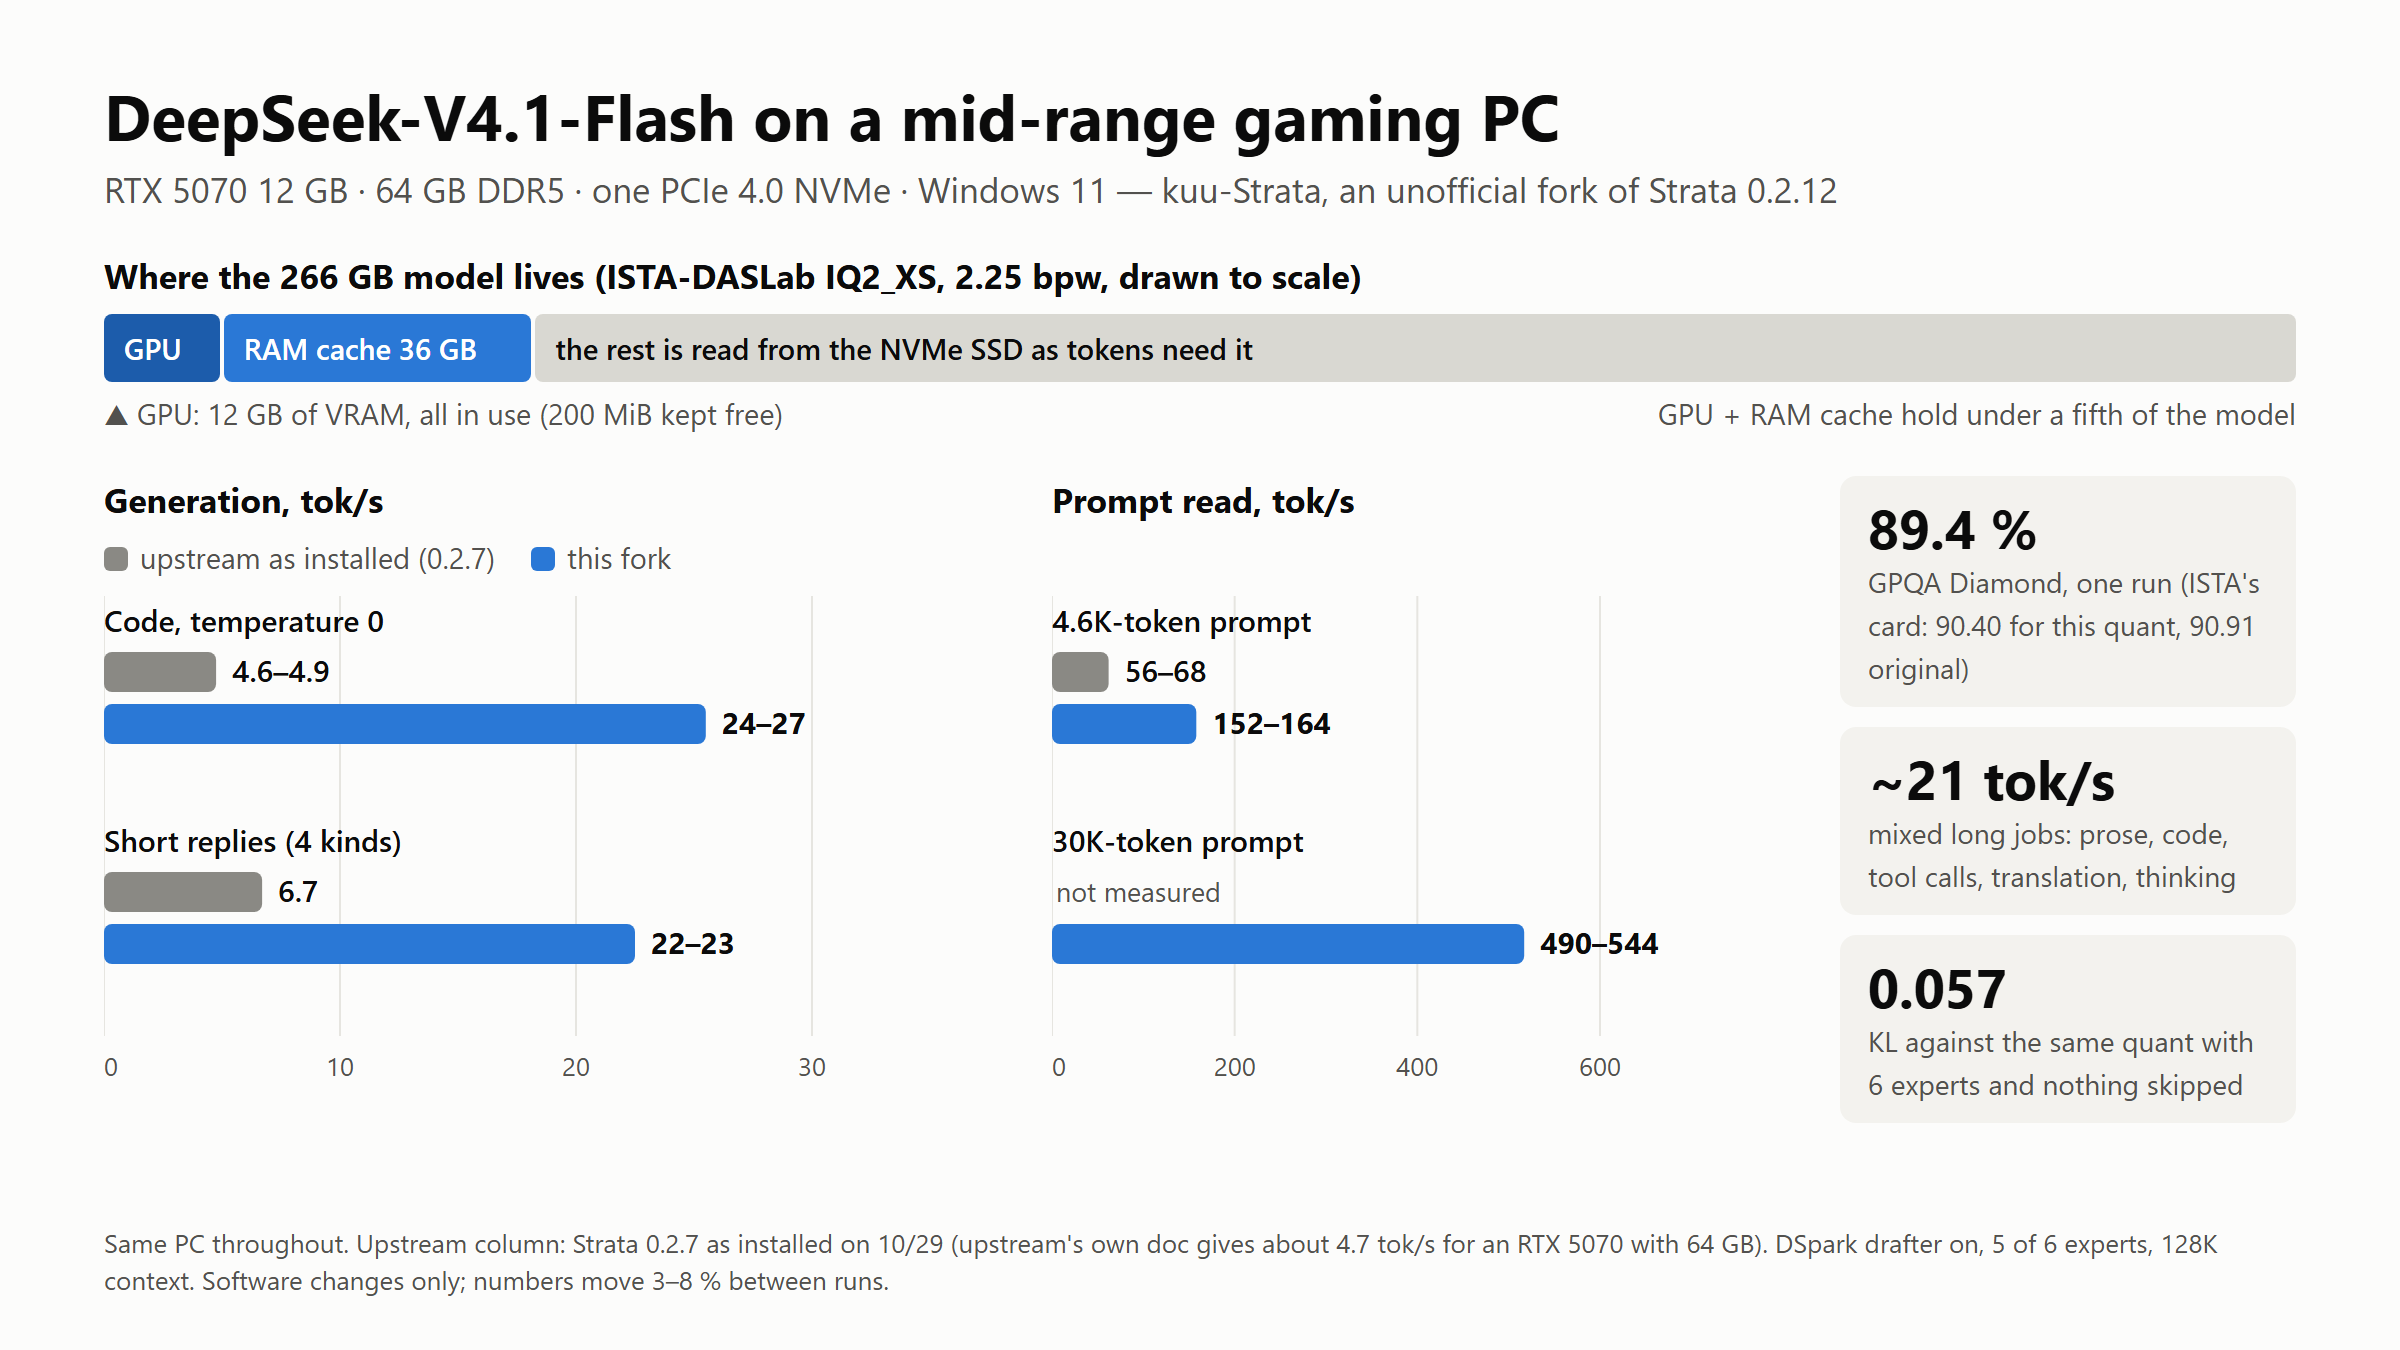
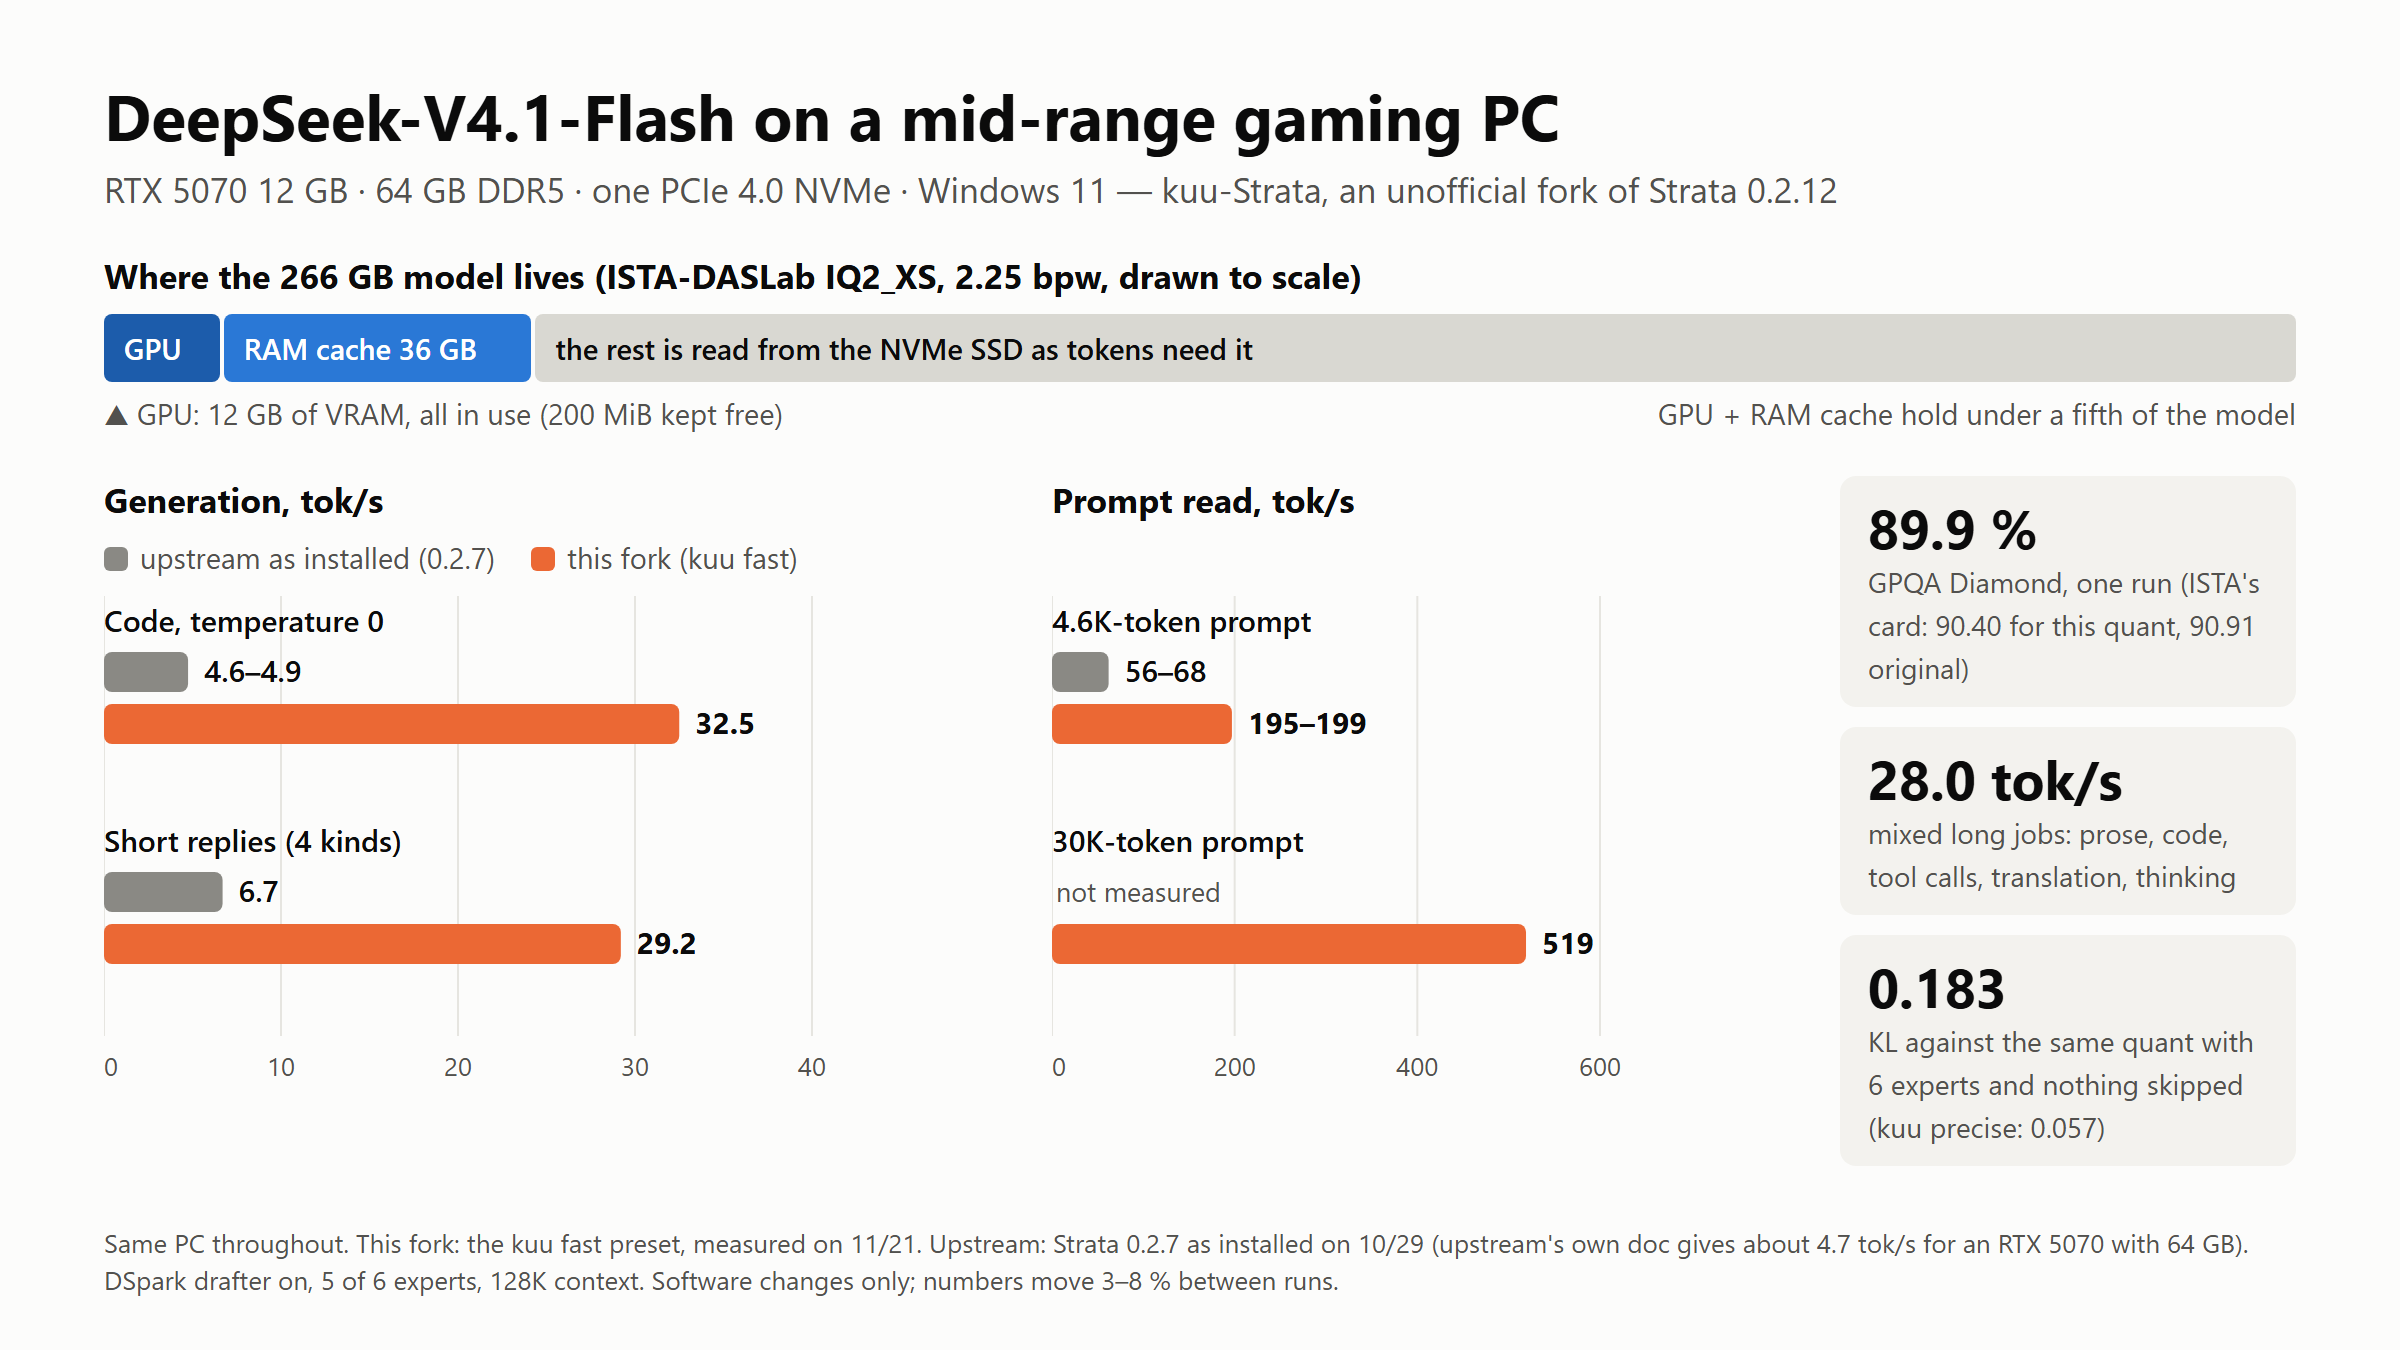
fork: README table from one session; summary image shows kuu fast
The kuu precise column now holds its 11/20 numbers from the same session as kuu fast (the old
ranges came from other days and made the 30K read look faster than fast). The summary image
showed kuu precise as "this fork"; it now shows the kuu fast run of 11/21.

diff --git a/docs/img/src/kuu-strata-summary.html b/docs/img/src/kuu-strata-summary.html
@@ -37,18 +37,18 @@ svg text{font-family:"Segoe UI",system-ui,sans-serif}
 
 <div class="row">
  <div class="panel"><h2>Generation, tok/s</h2>
-  <div class="key"><span><i style="background:#8a8984"></i>upstream as installed (0.2.7)</span><span><i style="background:#2a78d6"></i>this fork</span></div>
+  <div class="key"><span><i style="background:#8a8984"></i>upstream as installed (0.2.7)</span><span><i style="background:#eb6834"></i>this fork (kuu fast)</span></div>
   <svg id="g" width="440" height="250"></svg></div>
  <div class="panel"><h2>Prompt read, tok/s</h2>
   <div class="key"><span>&nbsp;</span></div>
   <svg id="p" width="360" height="250"></svg></div>
  <div class="tiles">
-  <div class="tile"><b>89.4 %</b><span>GPQA Diamond, one run (ISTA's card: 90.40 for this quant, 90.91 original)</span></div>
-  <div class="tile"><b>~21 tok/s</b><span>mixed long jobs: prose, code, tool calls, translation, thinking</span></div>
-  <div class="tile"><b>0.057</b><span>KL against the same quant with 6 experts and nothing skipped</span></div>
+  <div class="tile"><b>89.9 %</b><span>GPQA Diamond, one run (ISTA's card: 90.40 for this quant, 90.91 original)</span></div>
+  <div class="tile"><b>28.0 tok/s</b><span>mixed long jobs: prose, code, tool calls, translation, thinking</span></div>
+  <div class="tile"><b>0.183</b><span>KL against the same quant with 6 experts and nothing skipped (kuu precise: 0.057)</span></div>
  </div>
 </div>
-<div class="foot">Same PC throughout. Upstream column: Strata 0.2.7 as installed on 10/29 (upstream's own doc gives about 4.7 tok/s for an RTX 5070 with 64 GB). DSpark drafter on, 5 of 6 experts, 128K context. Software changes only; numbers move 3–8 % between runs.</div>
+<div class="foot">Same PC throughout. This fork: the kuu fast preset, measured on 11/21. Upstream: Strata 0.2.7 as installed on 10/29 (upstream's own doc gives about 4.7 tok/s for an RTX 5070 with 64 GB). DSpark drafter on, 5 of 6 experts, 128K context. Software changes only; numbers move 3–8 % between runs.</div>
 <script>
 const NS="http://www.w3.org/2000/svg";
 function chart(id,max,ticks,groups){
@@ -61,15 +61,15 @@ function chart(id,max,ticks,groups){
   el("text",{x:0,y:y0+18,"font-size":15,"font-weight":600,fill:"#0b0b0b"},g.l);
   g.b.forEach((b,j)=>{const y=y0+28+j*26,v=b.v;
    if(v==null){el("text",{x:2,y:y+15,"font-size":13.5,fill:"#52514e"},"not measured");return;}
-   el("rect",{x:X(0),y,width:Math.max(4,X(v)-X(0)),height:20,rx:4,fill:j?"#2a78d6":"#8a8984"});
+   el("rect",{x:X(0),y,width:Math.max(4,X(v)-X(0)),height:20,rx:4,fill:j?"#eb6834":"#8a8984"});
    el("text",{x:X(v)+8,y:y+15,"font-size":15,"font-weight":j?700:500,fill:"#0b0b0b"},b.t);});});
 }
-chart("g",30,[0,10,20,30],[
- {l:"Code, temperature 0",b:[{v:4.75,t:"4.6–4.9"},{v:25.5,t:"24–27"}]},
- {l:"Short replies (4 kinds)",b:[{v:6.7,t:"6.7"},{v:22.5,t:"22–23"}]},
+chart("g",40,[0,10,20,30,40],[
+ {l:"Code, temperature 0",b:[{v:4.75,t:"4.6–4.9"},{v:32.5,t:"32.5"}]},
+ {l:"Short replies (4 kinds)",b:[{v:6.7,t:"6.7"},{v:29.2,t:"29.2"}]},
 ]);
 chart("p",600,[0,200,400,600],[
- {l:"4.6K-token prompt",b:[{v:62,t:"56–68"},{v:158,t:"152–164"}]},
- {l:"30K-token prompt",b:[{v:null},{v:517,t:"490–544"}]},
+ {l:"4.6K-token prompt",b:[{v:62,t:"56–68"},{v:197,t:"195–199"}]},
+ {l:"30K-token prompt",b:[{v:null},{v:519,t:"519"}]},
 ]);
 </script></body></html>

diff --git a/README.md b/README.md
@@ -27,20 +27,21 @@ on, 128K context.
 
 | | upstream as installed (Strata 0.2.7, 10/29) | starting point (11/12: drafter on, 5 experts, nothing skipped) | kuu precise | kuu fast (this fork, default) |
 |---|---|---|---|---|
-| short replies (4 kinds, averaged) | about 6.7 tok/s | 12.0 tok/s | 22–23 tok/s | 28.3 tok/s |
-| mixed long generations ("wide": prose, code, tool calls, translation, thinking) | — | about 10 tok/s | 20.6–21.6 tok/s | 27.8 tok/s |
-| code, temperature 0 | 4.6–4.9 tok/s | — | 24–27 tok/s | 29–33 tok/s |
-| prompt read, 4.6K tokens | 56–68 tok/s | 128 / 137 tok/s | 152 / 164 tok/s | 183 / 199 tok/s |
-| prompt read, 30K tokens | — | 414 / 431 tok/s | 490–544 tok/s | 471 tok/s |
+| short replies (4 kinds, averaged) | about 6.7 tok/s | 12.0 tok/s | 22.4 tok/s | 28.3 tok/s |
+| mixed long generations ("wide": prose, code, tool calls, translation, thinking) | — | about 10 tok/s | 21.1 tok/s | 27.8 tok/s |
+| code, temperature 0 | 4.6–4.9 tok/s | — | 24.2 tok/s | 30.4 tok/s |
+| prompt read, 4.6K tokens | 56–68 tok/s | 128 / 137 tok/s | 152 / 163 tok/s | 183 / 199 tok/s |
+| prompt read, 30K tokens | — | 414 / 431 tok/s | 442 tok/s | 471 tok/s |
 | quality: KL against the same model with 6 experts and nothing skipped (3 segments, 3,000 positions) | — | 0.036 | 0.057 (±0.005 between runs) | 0.183 |
 | GPQA Diamond (one run each, see below) | — (ISTA-DASLab's card: 90.40 %) | — | 89.4 % | 89.9 % |
 | HumanEval / HumanEval+ (EvalPlus 0.3.1, temperature 0, no thinking) | — | — | 95.7 / 89.6 % | 94.5 / 90.2 % |
 
 The 10/29 column was measured while the engine inherited a low disk priority from the program that started it (upstream fixed
 that later, #4733), so its prompt reads are lower than they should be; upstream's own DeepSeek doc gives about 4.7 tok/s
-for an RTX 5070 with 64 GB of RAM, which matches its code speed. Generation speed moves 3–8 % from run to run; every comparison above was made against a baseline run in the same session. The kuu fast column (settings at the end) was
-measured on 11/20 in one session with kuu precise, which gave 22.4 (short), 21.1 (wide), 24.2 (code), 152 / 163 and 442 there;
-against that run fast is +26–32 % on generation, +20–22 % on the 4.6K prompt and +7 % on the 30K one. The card at the top shows a later run of kuu fast alone (11/21, right after a reboot with other apps closed):
+for an RTX 5070 with 64 GB of RAM, which matches its code speed. Generation speed moves 3–8 % from run to run; every comparison above was made against a baseline run in the same session. The kuu precise and kuu fast columns (settings at
+the end) were measured on 11/20 in one session (code: average of 3): fast is +26–32 % on generation, +20–22 % on the 4.6K
+prompt and +7 % on the 30K one. kuu precise alone measured higher on other days (wide 20.6–21.6, code 24–27, 30K read
+490–544), which is the run-to-run spread. The card at the top shows a later run of kuu fast alone (11/21, right after a reboot with other apps closed):
 28.0 (wide), 32.5 (code, average of 3), 195 / 199 and 519 tok/s.
 
 ![GPQA Diamond: this fork against ISTA-DASLab's numbers](docs/img/kuu-strata-gpqa.png)
@@ -94,7 +95,7 @@ Measured and **not** adopted (kept, off by default, so the numbers can be reprod
 
 A faster setting that measured well: `STRATA_DS4_DISK_SKIP_W=0.24` gives +18 % on "wide" and about 28–31 tok/s on
 code at temperature 0, at KL 0.114 (English suffers most). Going further, `DISK_SKIP_W=0.26` with deferral 0.20 reaches
-about 35 tok/s on code at KL 0.183 and still scored 89.9 % on GPQA Diamond (above). The second is kuu fast, the default since 11/20: KL says it
+about 30–35 tok/s on code at KL 0.183 and still scored 89.9 % on GPQA Diamond (above). The second is kuu fast, the default since 11/20: KL says it
 changes the text more, but GPQA and HumanEval+ came out the same; exact copying and Japanese prose are unchecked.
 
 ## Getting DSpark drafts on a 12 GB card
@@ -153,7 +154,7 @@ Then build a pack with it (`pack_gguf.py --drafter`) and copy the six `dspark_*`
 
 ## Settings on the reference PC
 
-Two presets, both in the model config's `args` / `env` (the numbers in the card at the top are these two).
+Two presets, both in the model config's `args` / `env` (the card at the top is kuu fast).
 
 ### kuu fast (the default)
 
